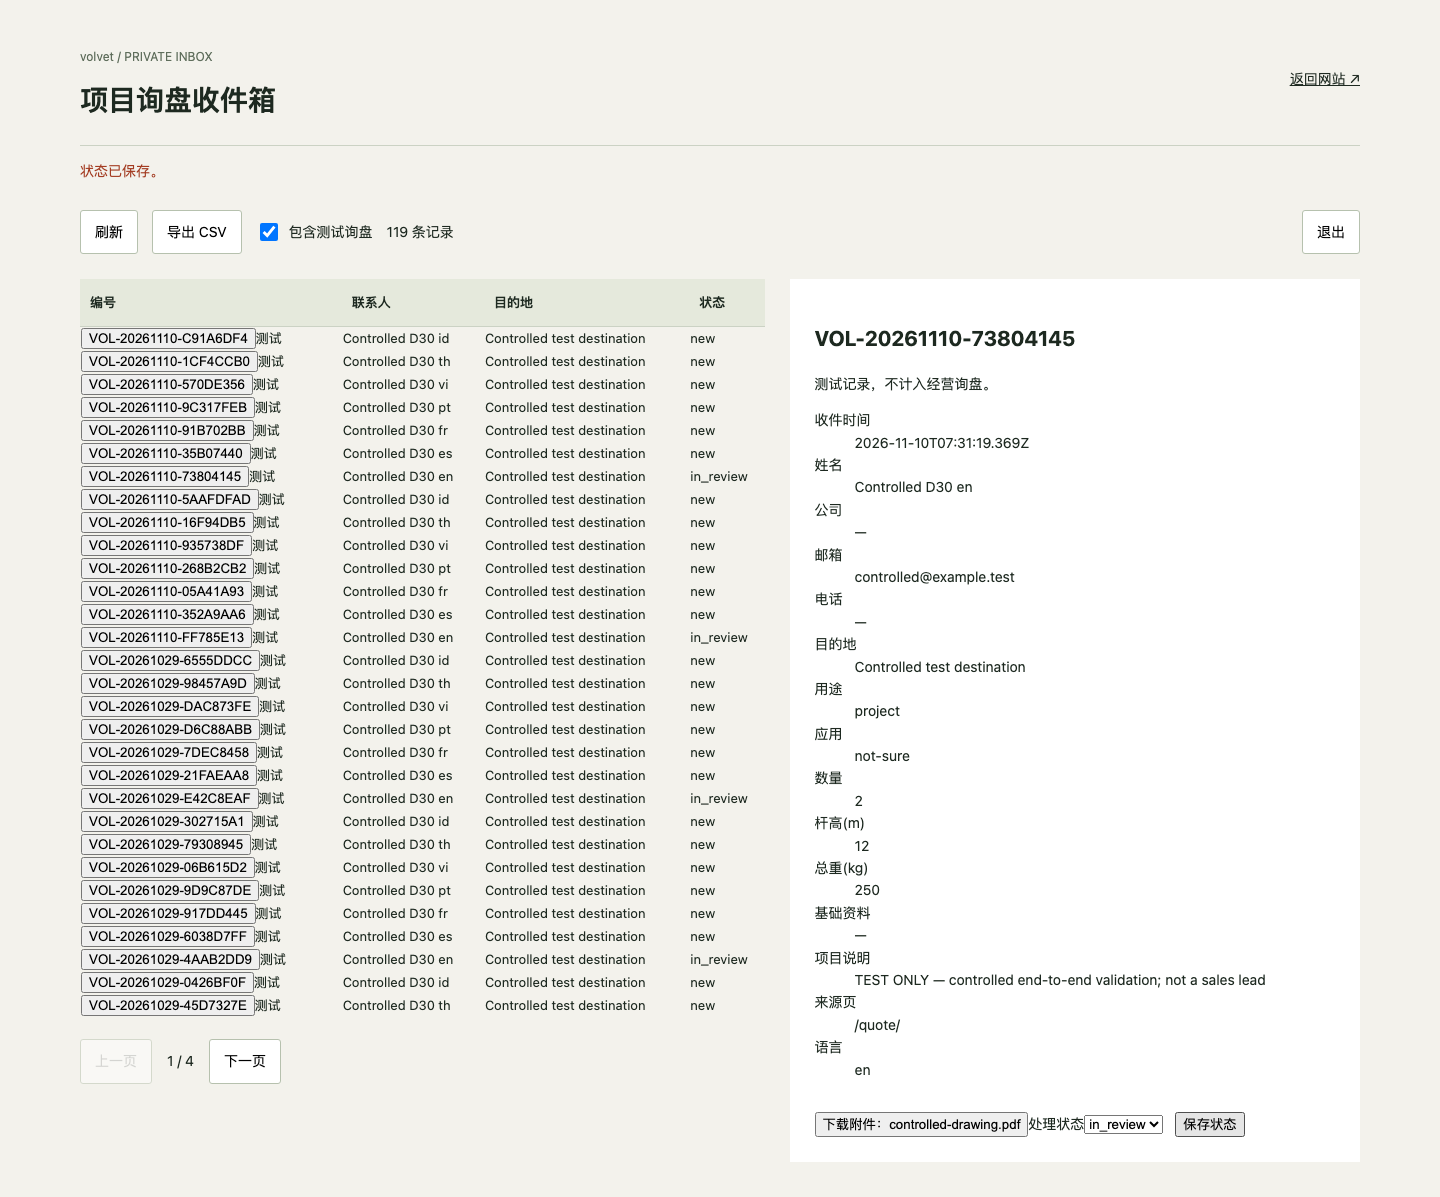
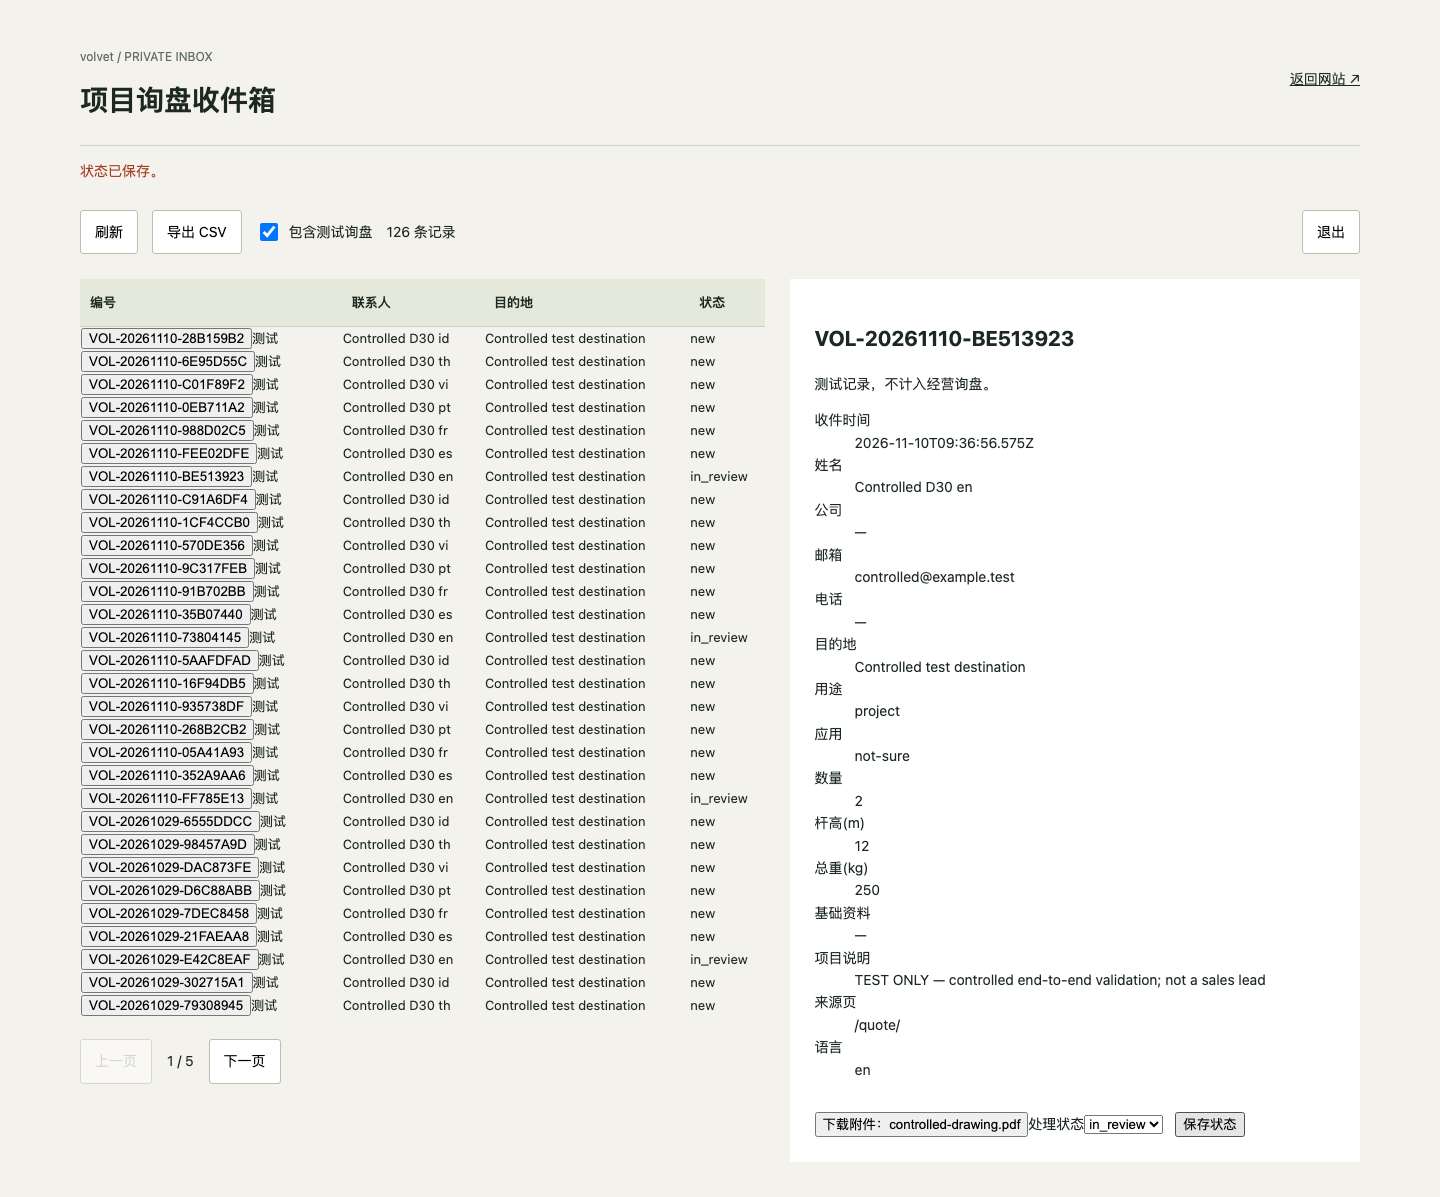
fix(domain): switch publicOrigin and all GEO/IndexNow/email URLs to https://www.velolev.org

diff --git a/docs/resend-email-guide.md b/docs/resend-email-guide.md
@@ -58,11 +58,11 @@ cp .env.example .env
 | 环境变量名 | 说明 | 示例值 |
 |---|---|---|
 | `RESEND_API_KEY` | Resend API 密钥 (在 resend.com 获取) | `re_123456789_abcdef` |
-| `RESEND_FROM_EMAIL` | 默认发件人地址 (生产环境须在 Resend 验证域名) | `volvet <notifications@volvet.com>` |
-| `ADMIN_NOTIFICATION_EMAIL` | 业务/销售团队接收询盘通知的邮箱 | `sales@volvet.com` |
-| `RESEND_REPLY_TO` | 客户回复邮件时的目标邮箱 | `support@volvet.com` |
+| `RESEND_FROM_EMAIL` | 默认发件人地址 (生产环境须在 Resend 验证域名) | `volvet <notifications@velolev.org>` |
+| `ADMIN_NOTIFICATION_EMAIL` | 业务/销售团队接收询盘通知的邮箱 | `sales@velolev.org` |
+| `RESEND_REPLY_TO` | 客户回复邮件时的目标邮箱 | `support@velolev.org` |
 | `RESEND_AUDIENCE_ID` | (可选) Resend 受众 Audience ID | `78261eea-8f8b-4381-83c6-79fa7120f1cf` |
-| `PUBLIC_ORIGIN` | 站点公网域名 (用于生成退订与回跳链接) | `https://volvet.com` |
+| `PUBLIC_ORIGIN` | 站点公网域名 (用于生成退订与回跳链接) | `https://www.velolev.org` |
 | `INQUIRY_ADMIN_TOKEN` | 管理员访问收件箱与订阅者名单的私钥 | 32+ 位随机安全字符串 |
 
 > [!NOTE]
@@ -75,7 +75,7 @@ cp .env.example .env
 当采购方或工程客户在网站提交询盘（如 `/quote` 或 `/contact-us`）时，后端服务将自动触发双向邮件流：
 
 ### 3.1 销售团队通知邮件 (Admin Notification)
-- **收件人**：`ADMIN_NOTIFICATION_EMAIL` (例如 `sales@volvet.com`)
+- **收件人**：`ADMIN_NOTIFICATION_EMAIL` (例如 `sales@velolev.org`)
 - **主题**：`[New Inquiry] {reference} - {company/name} ({country})`
 - **邮件内容**：
   - 专属询盘唯一追踪号（如 `VOL-20261030-ABCD1234`）
@@ -129,7 +129,7 @@ npm run edm:preview
 volvet Industrial EDM Campaign Dispatch Tool
 ====================================================
 Service Provider : RESEND (API Key Present)
-Sender Address   : volvet Procurement <notifications@volvet.com>
+Sender Address   : volvet Procurement <notifications@velolev.org>
 Campaign ID      : tech-brief-zero-crane-2026
 Subject Line     : "Field Engineering Report: Zero-Crane Light Pole Installation"
 Execution Mode   : DRY-RUN (No emails will actually be dispatched)
@@ -155,7 +155,7 @@ node scripts/send-edm.mjs --test-email=your-email@example.com
   "lead": "Analysis of two-module hydraulic lifter efficiency across 50-pole utility projects.",
   "bodyHtml": "<p>Dear Procurement Team,</p><p>We have updated the technical field study...</p>",
   "ctaText": "Download Specification Summary →",
-  "ctaUrl": "https://volvet.com/resources/",
+  "ctaUrl": "https://www.velolev.org/resources/",
   "secondaryHighlights": [
     "Battery-powered 24V DC hydraulic operation with no grid requirement",
     "Flange bolt pattern standardization for M16–M24 foundation circles"
@@ -199,9 +199,9 @@ node scripts/send-edm.mjs --campaign=my-campaign.json
    v=spf1 include:resend.com ~all
    ```
 3. **DMARC 记录** (TXT):
-   在 `_dmarc.volvet.com` 添加：
+   在 `_dmarc.velolev.org` 添加：
    ```
-   v=DMARC1; p=none; rua=mailto:dmarc-reports@volvet.com;
+   v=DMARC1; p=none; rua=mailto:dmarc-reports@velolev.org;
    ```
 配置完成后在 Resend 控制台点击 **Verify Domain** 即可激活生产发送权限。
 
